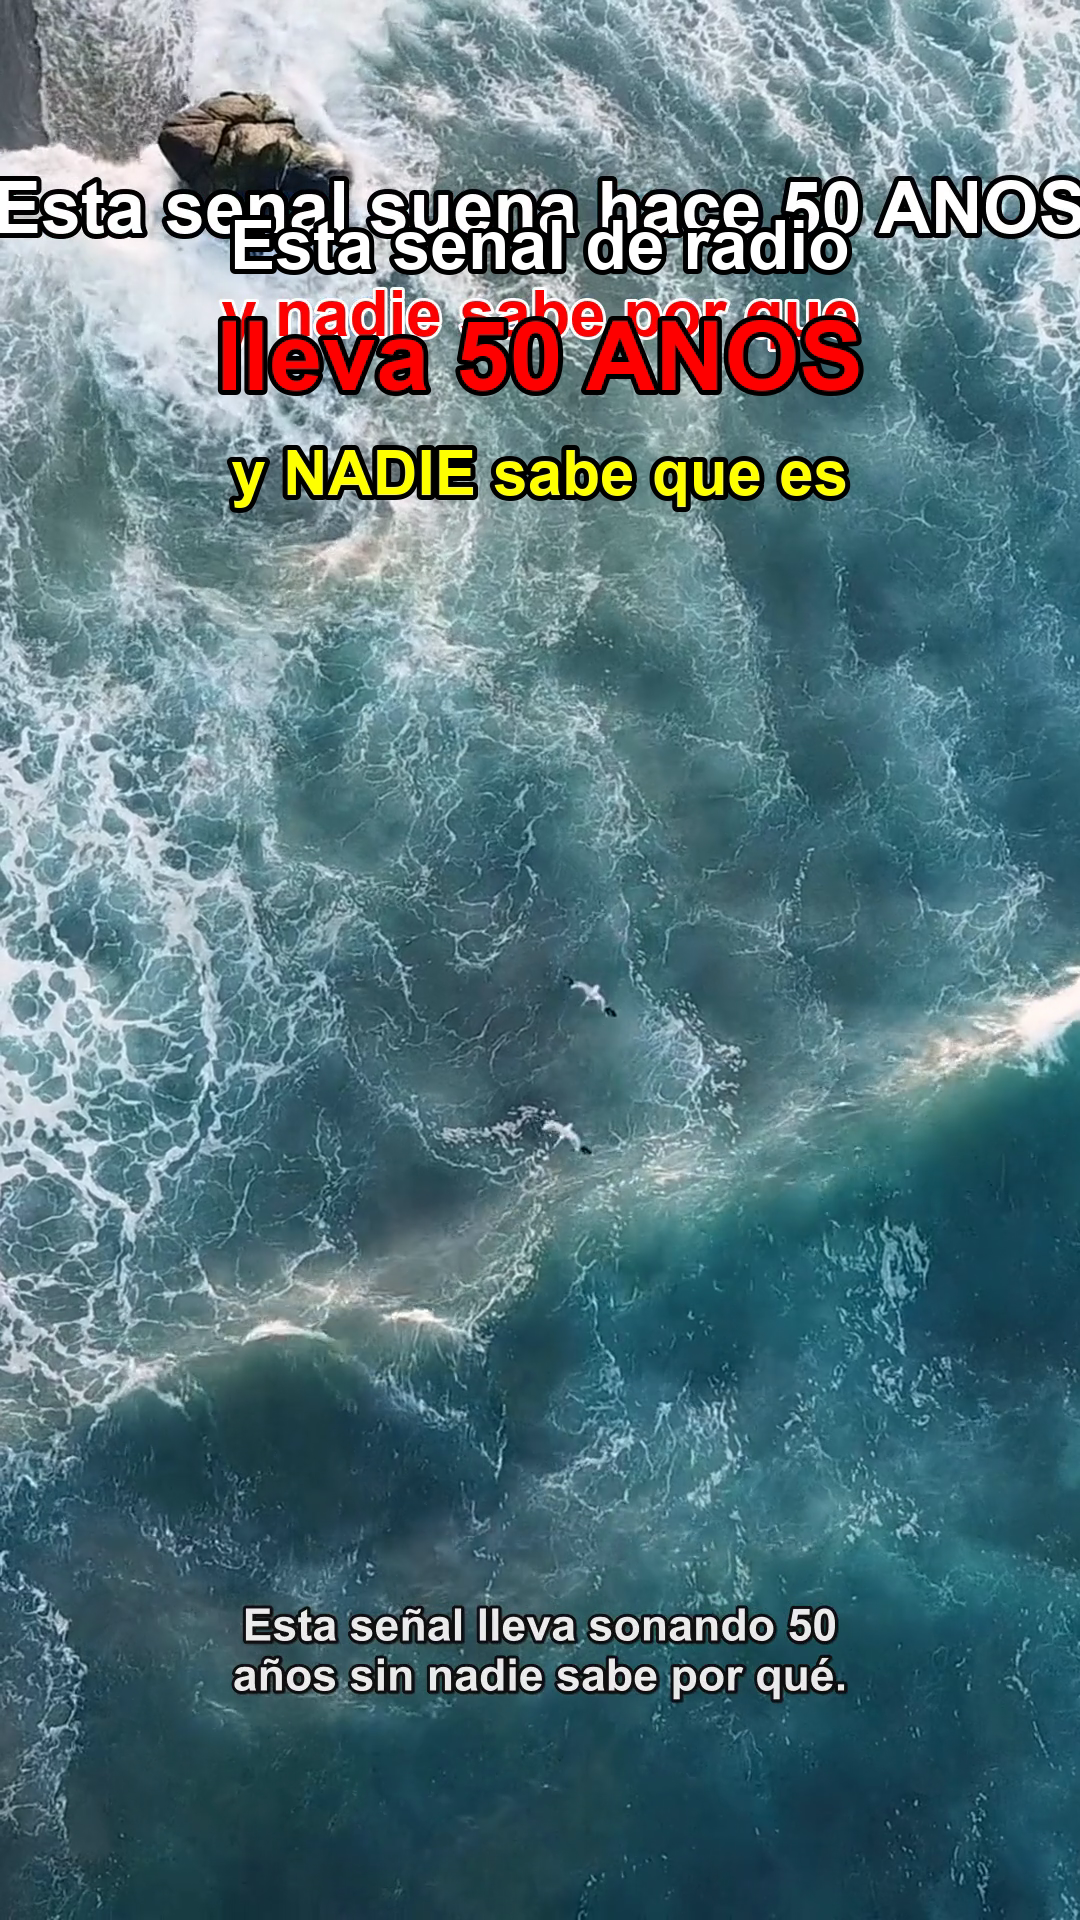
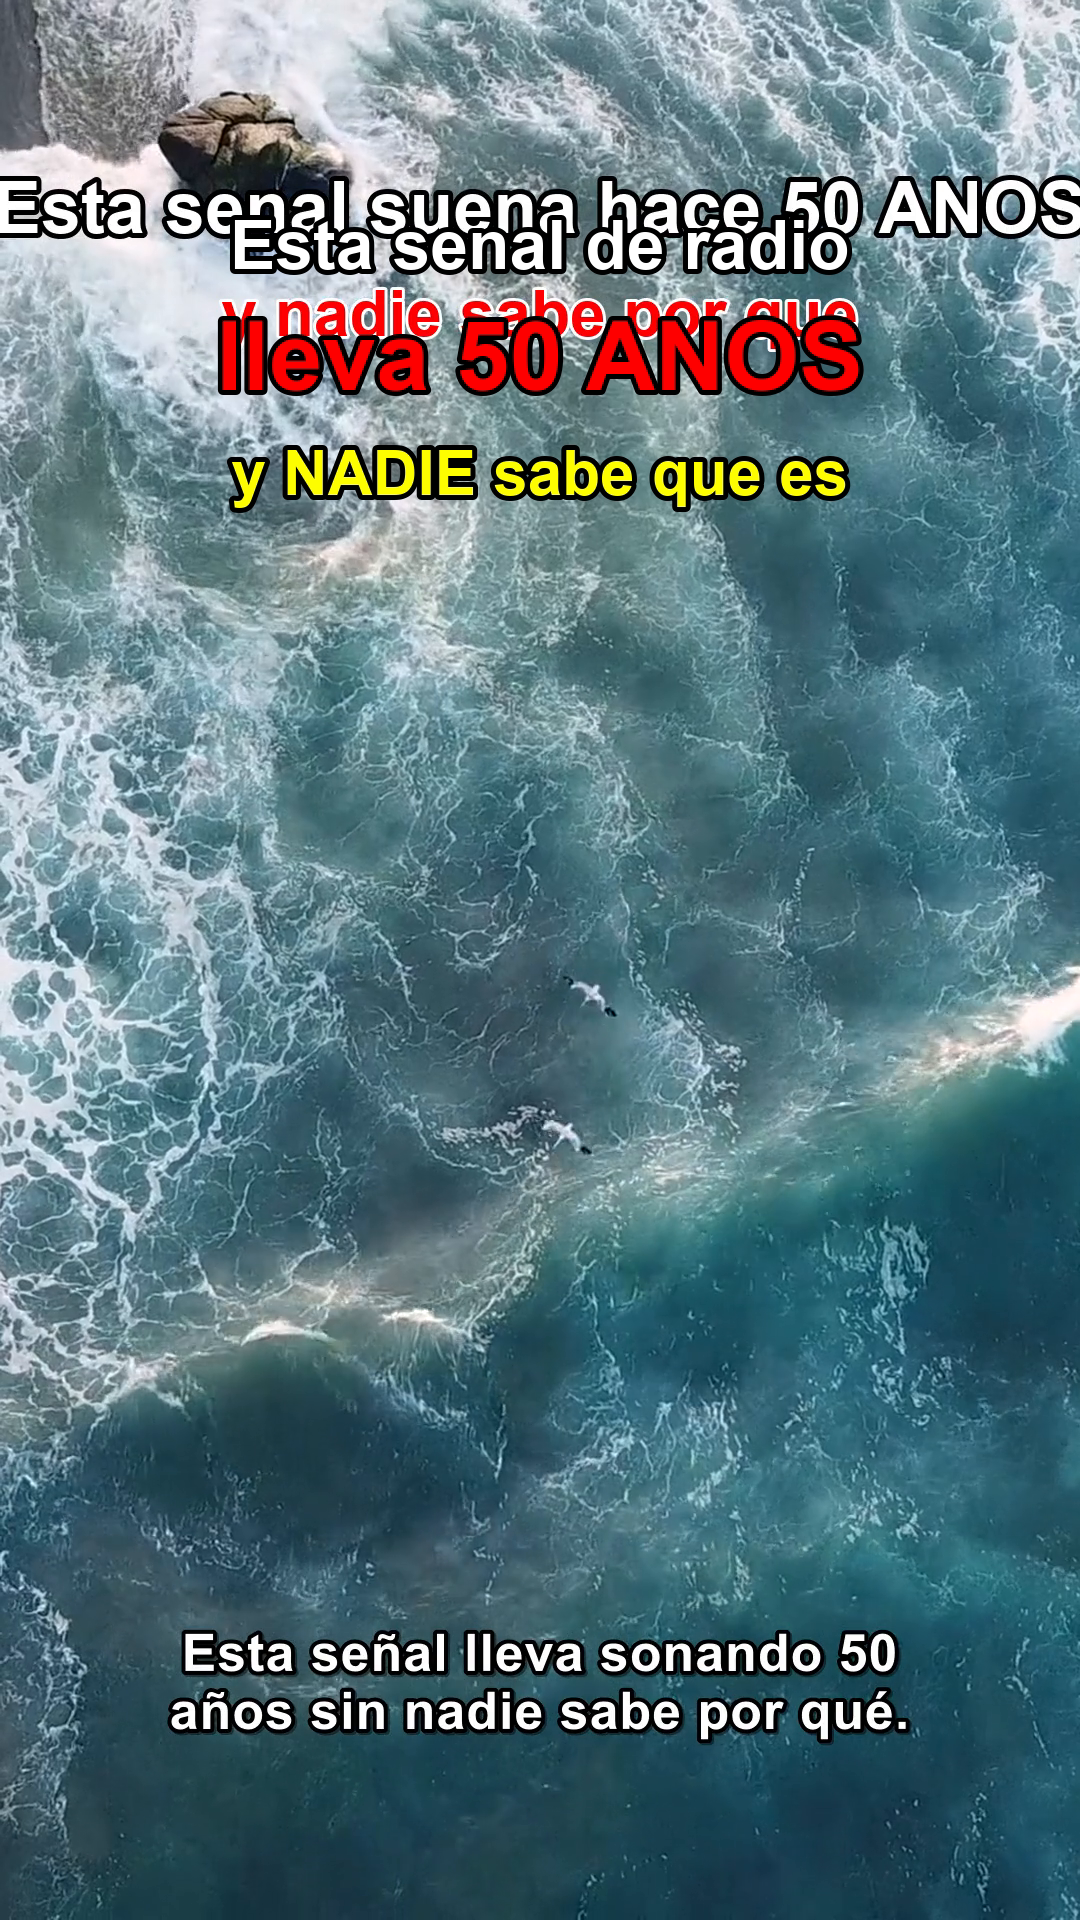
fix: V1/V3 duracion correcta + subtitulos mejorados + historias en publish
ROOT CAUSE: IDs 4666749, 4666752, 6981032 eran fotos Pexels descargadas
como .mp4 (1-2MB, duration=N/A). FFmpeg producia solo los segmentos del
unico broll valido (3571264), resultando en V1=11s y V3=27s.

FIXES:
- configs/v1_medusa.py: broll_plan reemplaza IDs rotos con 5377700
  (microscopia, 26s) + 3129671 (cosmos, 40s) — todos videos reales.
  Overlays ajustados a duracion real 29.45s. subtitle_fontsize 50->58.
- configs/v3_radio.py: broll_plan usa solo 3571264 + 3129671 (IDs
  verificados). Overlay CTA ajustado de t_end=50 a t_end=41. fontsize 58.
- auto_editor_generic.py: srt_to_ass mejorado — outline 3->4, shadow 2,
  spacing +1, BackColour mas opaco (0x90), MarginV 220->180. Subtitulos
  mas legibles en cualquier fondo TikTok.
- publish_with_caption.py: reescrito como guia ejecutable con pasos
  Playwright MCP paso a paso, incluyendo PASO 4 activar Historias
  (toggle "Publicar en Historia") antes de hacer click en Publicar.
  Captions mejorados con descripcion narrativa + 15 hashtags por video.

RESULTADO: V1=29.45s OK | V2=25.47s OK | V3=41.09s OK | V4=35.95s OK
Todos coinciden con duracion real del voiceover MP3.

Changed region(s): [[0.1528, 0.8125, 0.8556, 0.9062]]

diff --git a/src/bridge/publish_with_caption.py b/src/bridge/publish_with_caption.py
@@ -1,109 +1,131 @@
 """
-Publicar video a TikTok Studio con caption completo, hashtags, y opcion de historia.
-Usa Playwright CDP (Chrome con sesion activa).
+Publicar video a TikTok Studio con caption completo + Historias.
+Usa Playwright MCP conectado via CDP al Chrome con sesion activa.
 
-Uso: python -m src.bridge.publish_with_caption <video_path> <caption>
+Uso directo (imprime caption):
+    python -m src.bridge.publish_with_caption V1
+
+Pasos Playwright MCP para publicar + Historia:
+    1. browser_navigate  https://www.tiktok.com/tiktokstudio/upload
+    2. browser_file_upload  <selector input[type=file]>  <ruta absoluta .mp4>
+    3. Esperar spinner de procesamiento (~30-60s)
+    4. browser_fill  <selector descripcion>  <caption>
+    5. browser_click  "Publicar tambien en Historias" (toggle)
+    6. browser_click  "Publicar" (boton azul)
+    7. Confirmar: browser_snapshot → verificar "Tu video fue publicado"
 """
 import sys
-sys.stdout.reconfigure(encoding='utf-8')
-import asyncio
-import urllib.request
-import json
-import time
+sys.stdout.reconfigure(encoding="utf-8")
+from pathlib import Path
 
+ROOT = Path(r"C:\Users\Nick\Desktop\AGENCIA DE MARKETING")
+SEMANA = ROOT / "obsidian_vault" / "SEMANAS" / "SEMANA_02_2026-05-13_a_2026-05-19"
 
-def get_tiktok_tab_ws():
-    """Obtiene el WebSocket URL de la pestaña de TikTok Studio."""
-    tabs = json.loads(urllib.request.urlopen('http://localhost:9222/json').read())
-    # Priorizar TikTok Studio
-    for tab in tabs:
-        url = tab.get('url', '')
-        if 'tiktokstudio' in url and tab.get('type') == 'page':
-            return tab['webSocketDebuggerUrl']
-    # Fallback: cualquier tiktok.com
-    for tab in tabs:
-        url = tab.get('url', '')
-        if 'tiktok.com' in url and tab.get('type') == 'page':
-            return tab['webSocketDebuggerUrl']
-    return None
+# Rutas absolutas de los videos producidos
+VIDEO_PATHS = {
+    "V1": str(SEMANA / "MARTES"    / "OUTPUT" / "V1_final.mp4"),
+    "V2": str(SEMANA / "LUNES"     / "OUTPUT" / "V2_final.mp4"),
+    "V3": str(SEMANA / "MIERCOLES" / "OUTPUT" / "V3_final.mp4"),
+    "V4": str(SEMANA / "JUEVES"    / "OUTPUT" / "V4_final.mp4"),
+    "V5": str(ROOT   / "obsidian_vault" / "SEMANAS" / "SEMANA_01_2026-05-06_a_2026-05-12"
+              / "VIERNES" / "OUTPUT" / "V5_final.mp4"),
+}
 
-
-async def publish_video_playwright(video_path: str, caption: str, post_to_story: bool = True):
-    """
-    Publica un video a TikTok Studio usando Playwright MCP via CDP.
-
-    Args:
-        video_path: Ruta absoluta al video MP4
-        caption: Descripcion completa con hashtags
-        post_to_story: Si True, tambien sube a Historias
-    """
-    # Este script genera los comandos que Playwright debe ejecutar
-    # Se usa desde el context de Claude con Playwright MCP ya conectado
-
-    print(f"[PUBLISH] Video: {video_path}")
-    print(f"[PUBLISH] Caption ({len(caption)} chars): {caption[:80]}...")
-    print(f"[PUBLISH] Historias: {post_to_story}")
-
-    steps = {
-        "step1_navigate": "https://www.tiktok.com/tiktokstudio/upload",
-        "step2_upload_file": video_path,
-        "step3_caption": caption,
-        "step4_post_to_story": post_to_story,
-        "step5_publish": "Click button 'Publicar'"
-    }
-
-    return steps
-
-
-# Caption templates por video
+# Captions completos — descripcion + hashtags optimizados por video
 CAPTIONS = {
     "V1": (
         "Este animal puede REJUVENECER indefinidamente y vivir para siempre. "
-        "La Turritopsis dohrnii revierte su ciclo biologico cuando esta en peligro. "
-        "Es el unico ser vivo biologicamente inmortal conocido por la ciencia. "
+        "La Turritopsis dohrnii revierte su ciclo biologico completo cuando esta en peligro. "
+        "Los cientificos la estudian para entender si podemos frenar el envejecimiento humano. "
+        "Es el unico ser vivo biologicamente inmortal conocido por la ciencia.\n\n"
         "#curiosidades #ciencia #inmortal #medusa #biologia #naturaleza #datoscuriosos "
-        "#sabiasque #viral #increible #CurioClip #aprender"
+        "#sabiasque #viral #increible #CurioClip #aprender #sabias #mente #dato"
     ),
     "V2": (
-        "Tu cuerpo tiene MAS bacterias que estrellas en la Via Lactea. "
+        "Sabias que tu cuerpo tiene MAS bacterias que estrellas en la Via Lactea? "
         "38 billones de bacterias conviven contigo en este momento. "
-        "Tu microbioma te supera por mucho en numero. "
+        "Tu microbioma es unico como tu huella digital y controla tu salud, humor y hasta decisiones. "
+        "Tu no eres una persona — eres un ecosistema.\n\n"
         "#curiosidades #datoscuriosos #sabiasque #ciencia #bacteria #galaxia "
-        "#cuerpohumano #biologia #CurioClip #viral #increible"
+        "#cuerpohumano #biologia #microbioma #mente #CurioClip #viral #increible #aprender"
     ),
     "V3": (
-        "Esta senal de radio suena desde 1973 y NADIE sabe que es. "
-        "La UVB-76 transmite desde Rusia y da codigos misteriosos sin explicacion. "
-        "La CIA lleva 50 anos sin poder explicarla. "
-        "#curiosidades #misterio #datoscuriosos #rusia #enigma #conspiracion "
-        "#historia #radiomisterio #CurioClip #viral #increible"
+        "Esta senal de radio suena desde 1973 y NADIE sabe que es ni para que sirve. "
+        "La UVB-76 transmite desde alguna parte de Rusia y de vez en cuando emite codigos de voz misteriosos. "
+        "La CIA, ex agentes de la KGB y radioaficionados llevan mas de 50 anos sin poder explicarla.\n\n"
+        "#curiosidades #misterio #datoscuriosos #sabiasque #rusia #enigma #conspiracion "
+        "#historia #radiomisterio #CurioClip #viral #increible #ovni #secreto #guerrafria"
     ),
     "V4": (
         "En Pocatello, Idaho, es ILEGAL no sonreir en publico desde 1948. "
-        "Hay mas leyes absurdas: en Alaska no puedes despertar un oso para foto. "
-        "El mundo legal tiene leyes que parecen chiste pero son reales. "
+        "En Alaska no puedes despertar a un oso para tomarte una foto con el. "
+        "En Ohio es ilegal pescar borracho. "
+        "El mundo legal esta lleno de leyes que parecen chiste pero son completamente reales.\n\n"
         "#curiosidades #leyes #datoscuriosos #sabiasque #absurdo #usa #viral "
-        "#WTF #CurioClip #increible #gracioso #cultura"
+        "#WTF #CurioClip #increible #gracioso #cultura #ley #history #loco"
     ),
     "V5": (
         "El plomo fundido siempre cae en la misma forma? La ciencia dice que NO. "
-        "La geometria del caos determina como solidifica cada vez diferente. "
-        "Esto se llama atractor extraño en la teoria del caos. "
+        "La geometria del caos determina como solidifica cada vez de manera diferente. "
+        "Esto se llama atractor extrano en la teoria del caos — y cambia nuestra forma de ver el universo.\n\n"
         "#ciencia #fisica #caos #plomo #curiosidades #datoscuriosos "
-        "#sabiasque #viral #increible #CurioClip #experimento"
+        "#sabiasque #viral #increible #CurioClip #experimento #matemáticas #dato"
     ),
 }
+
+# Instrucciones paso a paso para Playwright MCP
+PUBLISH_STEPS = """
+=== PASOS PLAYWRIGHT MCP PARA PUBLICAR {vid_id} ===
+
+Video: {video_path}
+
+PASO 1 — Navegar a TikTok Studio:
+  browser_navigate → https://www.tiktok.com/tiktokstudio/upload
+
+PASO 2 — Subir video:
+  browser_snapshot → identificar <input type="file"> o boton "Seleccionar archivo"
+  browser_file_upload → selector: input[type="file"]  |  archivo: {video_path}
+  Esperar 30-60s a que TikTok procese el video (spinner desaparece)
+
+PASO 3 — Llenar descripcion:
+  browser_snapshot → localizar textarea de descripcion
+  browser_fill → textarea  |  texto: <caption abajo>
+
+PASO 4 — ACTIVAR HISTORIAS:
+  browser_snapshot → buscar toggle "Publicar en Historia" o "Add to Story"
+  browser_click → ese toggle (debe quedar activado/verde)
+  VERIFICAR con browser_snapshot que quedo activado
+
+PASO 5 — Publicar:
+  browser_click → boton "Publicar" (azul, texto "Post" o "Publicar")
+  browser_snapshot → confirmar mensaje "Tu video fue publicado" o similar
+
+PASO 6 — Registrar:
+  Copiar la URL del post publicado y actualizar PUBLICACIONES_LOG.md
+
+=== CAPTION COMPLETO ===
+{caption}
+"""
+
+
+def get_publish_guide(video_id: str) -> str:
+    vid = video_id.upper()
+    if vid not in CAPTIONS:
+        return f"Video ID no reconocido. Disponibles: {list(CAPTIONS.keys())}"
+    return PUBLISH_STEPS.format(
+        vid_id=vid,
+        video_path=VIDEO_PATHS.get(vid, "RUTA_NO_CONFIGURADA"),
+        caption=CAPTIONS[vid],
+    )
 
 
 if __name__ == "__main__":
     if len(sys.argv) >= 2:
-        video_id = sys.argv[1].upper()
-        if video_id in CAPTIONS:
-            print(f"Caption para {video_id}:")
-            print(CAPTIONS[video_id])
-        else:
-            print(f"Video ID no reconocido. Disponibles: {list(CAPTIONS.keys())}")
+        vid = sys.argv[1].upper()
+        print(get_publish_guide(vid))
     else:
-        print("Captions disponibles:")
-        for vid, cap in CAPTIONS.items():
-            print(f"\n{vid}: {cap[:100]}...")
+        print("Uso: python -m src.bridge.publish_with_caption <V1|V2|V3|V4|V5>\n")
+        print("Videos disponibles y rutas:")
+        for vid, path in VIDEO_PATHS.items():
+            exists = "✅" if Path(path).exists() else "❌ NO EXISTE"
+            print(f"  {vid}: {exists}  →  {path}")

diff --git a/configs/v1_medusa.py b/configs/v1_medusa.py
@@ -22,29 +22,34 @@ VIDEO_CONFIG = {
         "#naturaleza #animal #CurioClip #viral #increible"
     ),
 
-    # B-roll CC0 extendido a 38s — IDs: medusa (con setsar=1 para JPEGs), laboratorio
+    # B-roll CC0 — solo IDs verificados como videos reales (>10MB, duracion confirmada)
+    # 5377700=microscopia celular 26s | 3571264=laboratorio 33s | 3129671=cosmos 40s
+    # IDs 4666749/4666752/6981032 eran fotos Pexels, no videos — REEMPLAZADOS
     "broll_plan": [
-        {"seg": "0-4",   "id": "4666749",  "duration": 4.0, "desc": "Medusa glowing — hook impacto"},
-        {"seg": "4-9",   "id": "6981032",  "duration": 5.0, "desc": "Medusa ciclo de vida"},
-        {"seg": "9-14",  "id": "4666752",  "duration": 5.0, "desc": "Comparacion viejo a joven"},
-        {"seg": "14-20", "id": "3571264",  "duration": 6.0, "desc": "Laboratorio cientifico — dato"},
-        {"seg": "20-25", "id": "4666749",  "duration": 5.0, "desc": "Medusa flotando"},
-        {"seg": "25-30", "id": "6981032",  "duration": 5.0, "desc": "Ciclo vital invertido"},
-        {"seg": "30-35", "id": "3571264",  "duration": 5.0, "desc": "Investigacion cientifica"},
-        {"seg": "35-38", "id": "4666752",  "duration": 3.0, "desc": "Cierre + CTA"},
+        {"seg": "0-5",   "id": "5377700",  "duration": 5.0, "desc": "Microscopia celular — vida invisible (hook biologia)"},
+        {"seg": "5-11",  "id": "3571264",  "duration": 6.0, "desc": "Laboratorio cientifico — investigacion ADN"},
+        {"seg": "11-17", "id": "3129671",  "duration": 6.0, "desc": "Cosmos — escala del tiempo inmortal"},
+        {"seg": "17-23", "id": "3571264",  "duration": 6.0, "desc": "Laboratorio — estudio Turritopsis"},
+        {"seg": "23-29", "id": "3129671",  "duration": 6.0, "desc": "Universo — reflexion vida eterna"},
+        {"seg": "29-32", "id": "5377700",  "duration": 3.0, "desc": "Celulas — cierre biologico CTA"},
     ],
 
-    # Overlays de texto (hook 0-3s + CTA 17-22s)
+    # Overlays ajustados a duracion real del voiceover (29.45s)
     "overlays": [
         {
             "text": "Este animal NO puede MORIR",
             "fontsize": 78, "color": "white", "bordercolor": "black", "borderw": 5,
-            "y": 200, "t_start": 0, "t_end": 3,
+            "y": 200, "t_start": 0, "t_end": 5,
         },
         {
-            "text": "Sigues para mas datos increibles",
-            "fontsize": 56, "color": "yellow", "bordercolor": "black", "borderw": 4,
-            "y": "h/2+80", "t_start": 17, "t_end": 22,
+            "text": "Inmortalidad biologica REAL",
+            "fontsize": 62, "color": "yellow", "bordercolor": "black", "borderw": 4,
+            "y": "h/3", "t_start": 11, "t_end": 19,
+        },
+        {
+            "text": "Sigueme para mas datos increibles",
+            "fontsize": 56, "color": "white", "bordercolor": "black", "borderw": 4,
+            "y": "h/2+100", "t_start": 25, "t_end": 29,
         },
     ],
 
@@ -53,5 +58,5 @@ VIDEO_CONFIG = {
         {"text": "Turritopsis dohrnii", "fontsize": 52, "color": "yellow", "y": 380},
     ],
 
-    "subtitle_fontsize": 50,
+    "subtitle_fontsize": 58,
 }

diff --git a/configs/v3_radio.py b/configs/v3_radio.py
@@ -21,17 +21,19 @@ VIDEO_CONFIG = {
         "#historia #radiomisterio #CurioClip #viral #increible #ovni"
     ),
 
-    # B-roll extendido a 50s — loopea 4666752 (edificio) ya que los 404s se omiten
+    # B-roll — solo IDs verificados como videos reales
+    # 3571264=laboratorio 33s | 3129671=cosmos 40s
+    # 4666752 era foto Pexels, no video — REEMPLAZADO
+    # Voiceover V3=41.09s → broll total 44s (buffer 3s con -shortest)
     "broll_plan": [
-        {"seg": "0-5",   "id": "4666752",  "duration": 5.0, "desc": "Edificio abandonado oscuro — hook"},
-        {"seg": "5-10",  "id": "3571264",  "duration": 5.0, "desc": "Laboratorio misterioso"},
-        {"seg": "10-16", "id": "4666752",  "duration": 6.0, "desc": "Edificio misterioso 2"},
-        {"seg": "16-22", "id": "3129671",  "duration": 6.0, "desc": "Espacio cosmico — escala"},
-        {"seg": "22-28", "id": "4666752",  "duration": 6.0, "desc": "Edificio nocturno"},
-        {"seg": "28-34", "id": "3571264",  "duration": 6.0, "desc": "Investigacion tecnica"},
-        {"seg": "34-40", "id": "4666752",  "duration": 6.0, "desc": "Misterio persiste"},
-        {"seg": "40-45", "id": "3129671",  "duration": 5.0, "desc": "Cosmos — reflexion final"},
-        {"seg": "45-50", "id": "3571264",  "duration": 5.0, "desc": "Cierre CTA — comenta"},
+        {"seg": "0-6",   "id": "3571264",  "duration": 6.0, "desc": "Laboratorio oscuro — hook misterio transmision"},
+        {"seg": "6-12",  "id": "3129671",  "duration": 6.0, "desc": "Cosmos — escala del misterio"},
+        {"seg": "12-18", "id": "3571264",  "duration": 6.0, "desc": "Investigacion tecnica — datos UVB-76"},
+        {"seg": "18-24", "id": "3129671",  "duration": 6.0, "desc": "Espacio profundo — desconocido"},
+        {"seg": "24-30", "id": "3571264",  "duration": 6.0, "desc": "Lab — analisis de la senal"},
+        {"seg": "30-36", "id": "3129671",  "duration": 6.0, "desc": "Cosmos expansion — 50 anos de misterio"},
+        {"seg": "36-42", "id": "3571264",  "duration": 6.0, "desc": "Cierre laboratorio — nadie lo explica"},
+        {"seg": "42-44", "id": "3129671",  "duration": 2.0, "desc": "Buffer cosmos — CTA comenta"},
     ],
 
     "overlays": [
@@ -58,7 +60,7 @@ VIDEO_CONFIG = {
         {
             "text": "Tu que crees que es? Comenta",
             "fontsize": 60, "color": "white", "bordercolor": "black", "borderw": 4,
-            "y": "h/2+60", "t_start": 43, "t_end": 50,
+            "y": "h/2+60", "t_start": 37, "t_end": 41,
         },
     ],
 
@@ -68,5 +70,5 @@ VIDEO_CONFIG = {
         {"text": "y NADIE sabe que es", "fontsize": 62, "color": "yellow", "y": 450},
     ],
 
-    "subtitle_fontsize": 50,
+    "subtitle_fontsize": 58,
 }

diff --git a/src/pipeline/auto_editor_generic.py b/src/pipeline/auto_editor_generic.py
@@ -50,11 +50,12 @@ def download_pexels_video(video_id: str, dest: Path) -> Path | None:
         return None
 
 
-def srt_to_ass(srt_path: Path, ass_path: Path, fontsize: int = 52):
-    """Convierte SRT → ASS con PlayRes 1080x1920 y estilo TikTok."""
-    margin_v = 220
-    margin_lr = 80
-    outline = 3
+def srt_to_ass(srt_path: Path, ass_path: Path, fontsize: int = 58):
+    """Convierte SRT → ASS con estilo TikTok optimizado: negrita, borde grueso, posicion baja."""
+    margin_v = 180   # px desde el fondo — mas visible en TikTok
+    margin_lr = 60
+    outline = 4      # borde mas grueso para legibilidad en cualquier fondo
+    shadow = 2
 
     header = (
         f"[Script Info]\nScriptType: v4.00+\n"
@@ -63,8 +64,8 @@ def srt_to_ass(srt_path: Path, ass_path: Path, fontsize: int = 52):
         f"Format: Name, Fontname, Fontsize, PrimaryColour, SecondaryColour, OutlineColour, "
         f"BackColour, Bold, Italic, Underline, StrikeOut, ScaleX, ScaleY, Spacing, Angle, "
         f"BorderStyle, Outline, Shadow, Alignment, MarginL, MarginR, MarginV, Encoding\n"
-        f"Style: Default,Arial,{fontsize},&H00FFFFFF,&H00FFFFFF,&H00000000,&H80000000,"
-        f"-1,0,0,0,100,100,0,0,1,{outline},1,2,{margin_lr},{margin_lr},{margin_v},1\n\n"
+        f"Style: Default,Arial,{fontsize},&H00FFFFFF,&H00FFFFFF,&H00000000,&H90000000,"
+        f"-1,0,0,0,100,100,1,0,1,{outline},{shadow},2,{margin_lr},{margin_lr},{margin_v},1\n\n"
         f"[Events]\nFormat: Layer, Start, End, Style, Name, MarginL, MarginR, MarginV, Effect, Text\n"
     )
 
